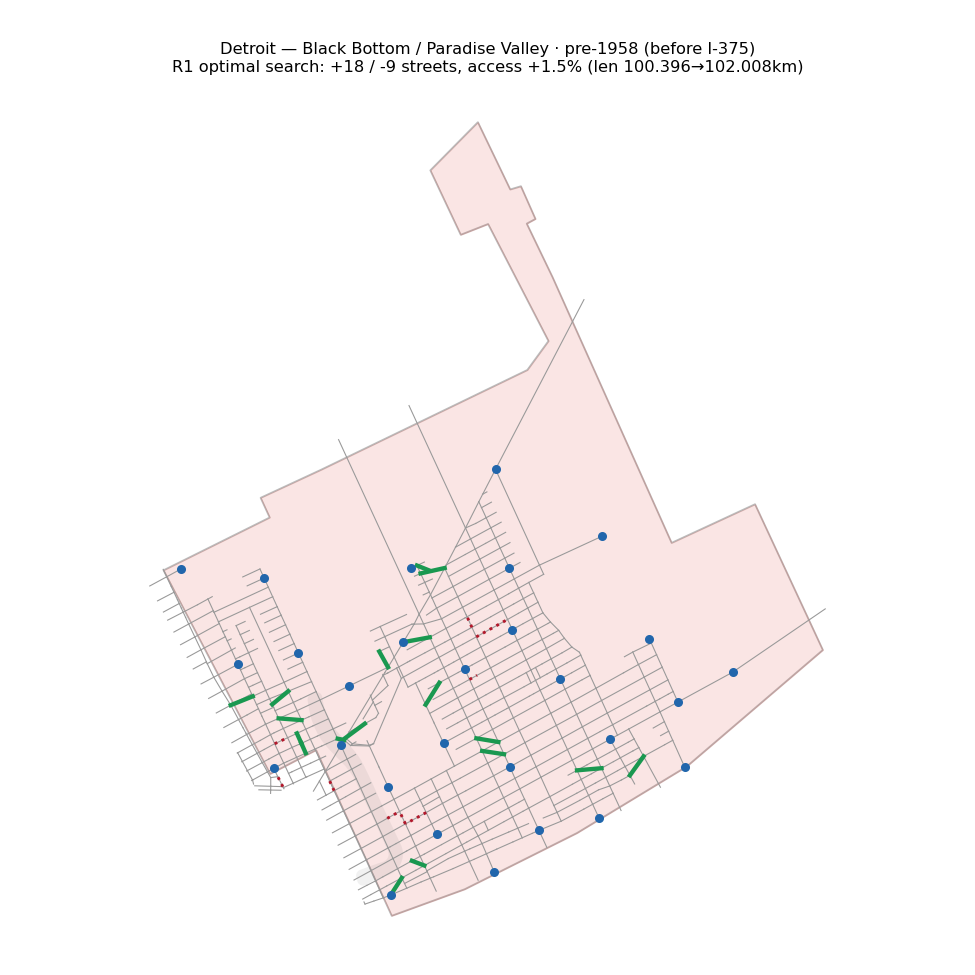
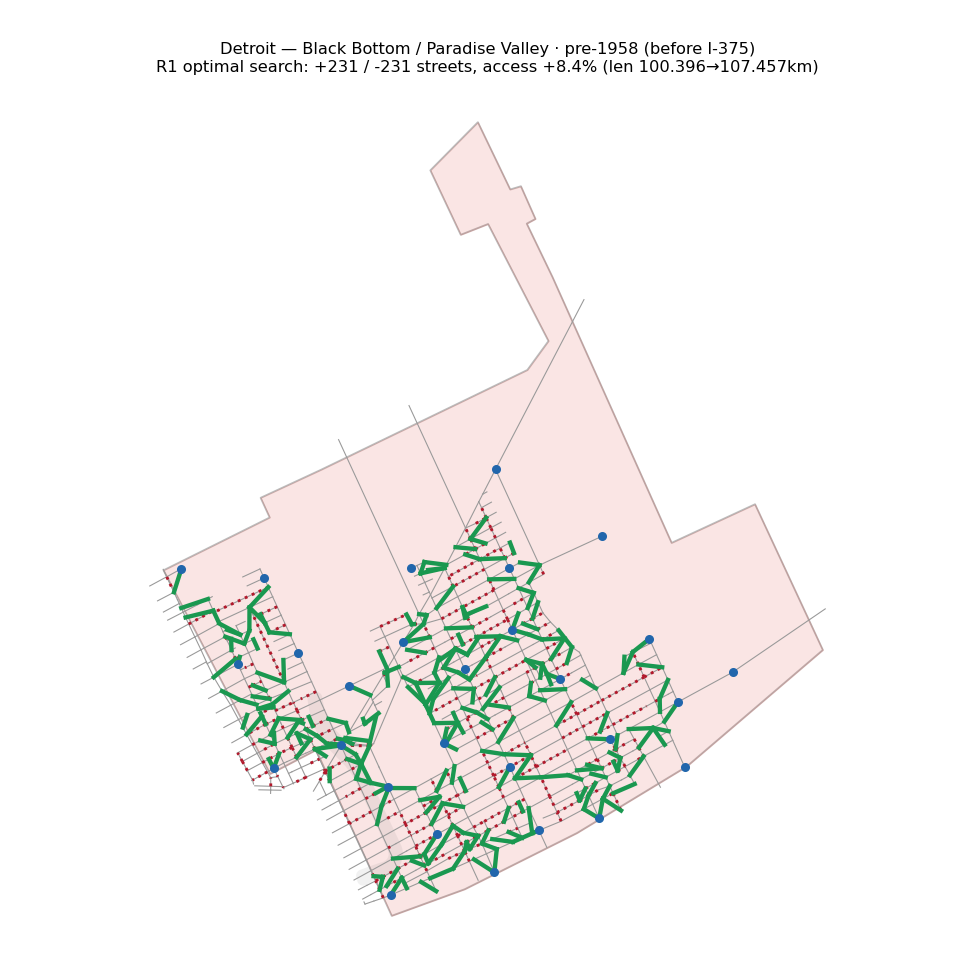
Regime-1 search diagnostics + temperature fix (MCMC accuracy)
Adds convergence/acceptance/seed-stability diagnostics for the R1 annealing
search (it's an optimizer, not a sampler, so R-hat/ESS don't apply).

22_regime1_diagnostics.py: runs N seeds, plots (1) running-best J convergence,
  (2) acceptance rate vs temperature, (3) seed stability of the optimum;
  writes regime1_mcmc_diag.csv.
20_regime1_prehighway.py: records a per-iteration trace, and FIXES the anneal
  schedule -- T0 was 0.06, ~400x too hot for the per-move dJ (~1e-4), so
  acceptance was pinned ~0.95 (random walk) and the optimum was seed-unstable
  (0.87%+/-0.81%). T0,T1 = 2e-4,5e-6 -> textbook acceptance decay (0.7->0.1)
  and seed-stable 9.08%+/-0.51%.

Caveat surfaced and documented: with a working hill-climb the objective rewires
~25% of the grid toward the 28 sampled landmarks (+231/-231, +8.4%), so R1's
access_gain is a landmark-referenced upper bound, not proof the historic grid
was deficient -- held-out-landmark evaluation is the next step. The earlier
"+18/-9, near-optimal" claim was a random-walk artefact and is retracted.

Changed region(s): [[0.1846, 0.5231, 0.7077, 0.9231], [0.1538, 0.0615, 0.8308, 0.0923], [0.1538, 0.5846, 0.1846, 0.6154]]

diff --git a/pathfinder/22_regime1_diagnostics.py b/pathfinder/22_regime1_diagnostics.py
@@ -1,0 +1,135 @@
+"""Regime-1 search diagnostics: convergence, acceptance, seed stability.
+
+Regime 1 is a simulated-annealing optimizer (find the cost-efficient network),
+NOT a posterior sampler, so R-hat / ESS don't apply directly.  The relevant
+"accuracy" evidence for an annealing search is:
+
+  1. CONVERGENCE   -- does the running-best objective J reach a plateau?
+  2. ACCEPTANCE    -- does the Metropolis acceptance rate fall smoothly from
+                      ~high (exploration, hot) to ~low (exploitation, cold)?
+                      Flat-high = random walk (not optimizing); flat-zero =
+                      frozen (stuck).  A healthy anneal decays in between.
+  3. STABILITY     -- do independent seeds converge to the SAME optimum
+                      (access_gain, #added, #removed)?  Tight spread => the
+                      search reliably finds the optimum, not a seed artefact.
+
+Runs `optimize` for several seeds, plots all three, writes a diagnostics CSV.
+
+Outputs: results/pathfinder/fig_{slug}_regime1_mcmc.png,
+         results/pathfinder/regime1_mcmc_diag.csv
+Usage: python pathfinder/22_regime1_diagnostics.py [--slug detroit]
+       [--iters 2000] [--seeds 1 7 13 21 42]
+"""
+from __future__ import annotations
+
+import argparse
+import warnings
+
+import matplotlib
+import numpy as np
+import pandas as pd
+
+matplotlib.use("Agg")
+import matplotlib.pyplot as plt  # noqa: E402
+
+import importlib.util
+from pathlib import Path
+
+from pf_common import CITIES, RES
+
+# import the numbered Regime-1 module (name starts with a digit)
+_spec = importlib.util.spec_from_file_location(
+    "regime1", Path(__file__).with_name("20_regime1_prehighway.py"))
+regime1 = importlib.util.module_from_spec(_spec)
+_spec.loader.exec_module(regime1)
+
+warnings.filterwarnings("ignore")
+
+
+def rolling(x, w):
+    x = np.asarray(x, float)
+    if len(x) < w:
+        return x
+    c = np.cumsum(np.insert(x, 0, 0))
+    return (c[w:] - c[:-w]) / w
+
+
+def main():
+    ap = argparse.ArgumentParser()
+    ap.add_argument("--slug", default="detroit")
+    ap.add_argument("--iters", type=int, default=2000)
+    ap.add_argument("--landmarks", type=int, default=28)
+    ap.add_argument("--mu", type=float, default=0.08)
+    ap.add_argument("--seeds", type=int, nargs="*", default=[1, 7, 13, 21, 42])
+    a = ap.parse_args()
+    cfg = CITIES[a.slug]
+
+    runs, diag_rows = [], []
+    for sd in a.seeds:
+        print(f"[{a.slug}] seed={sd} ...", flush=True)
+        row, art = regime1.optimize(a.slug, a.iters, a.landmarks, a.mu, sd)
+        tr = np.array(art["trace"], float)   # it,T,J,bestJ,accepted,n_edges
+        runs.append((sd, tr))
+        diag_rows.append(dict(
+            seed=sd, iters=a.iters,
+            access_gain=row["access_gain"], eff_gain=row["eff_gain"],
+            n_added=row["n_added"], n_removed=row["n_removed"],
+            len_opt_km=row["len_opt_km"],
+            final_bestJ=round(float(tr[-1, 3]), 5),
+            accept_rate=round(float(tr[:, 4].mean()), 3),
+            accept_rate_last10pct=round(float(tr[int(0.9 * len(tr)):, 4].mean()), 3),
+        ))
+        print(f"    access_gain={row['access_gain']*100:.2f}%  "
+              f"+{row['n_added']}/-{row['n_removed']}  "
+              f"accept={diag_rows[-1]['accept_rate']:.2f}", flush=True)
+
+    df = pd.DataFrame(diag_rows)
+    df.to_csv(RES / "regime1_mcmc_diag.csv", index=False)
+
+    fig, axes = plt.subplots(1, 3, figsize=(16, 4.6))
+    cmap = plt.cm.viridis(np.linspace(0, 0.85, len(runs)))
+
+    # (1) convergence: running-best J
+    ax = axes[0]
+    for (sd, tr), c in zip(runs, cmap):
+        ax.plot(tr[:, 0], tr[:, 3] * 100, color=c, lw=1.3, label=f"seed {sd}")
+    ax.set_xlabel("iteration"); ax.set_ylabel("running-best objective J (%)")
+    ax.set_title("(1) Convergence of best J", fontsize=11)
+    ax.legend(fontsize=8)
+
+    # (2) acceptance rate (rolling) vs iteration, with temperature on twin axis
+    ax = axes[1]
+    W = max(20, a.iters // 40)
+    for (sd, tr), c in zip(runs, cmap):
+        ar = rolling(tr[:, 4], W)
+        ax.plot(np.arange(len(ar)), ar, color=c, lw=1.2)
+    ax.set_xlabel("iteration"); ax.set_ylabel(f"acceptance rate (roll {W})")
+    ax.set_ylim(0, 1); ax.set_title("(2) Acceptance rate (anneal)", fontsize=11)
+    axT = ax.twinx()
+    axT.plot(runs[0][1][:, 0], runs[0][1][:, 1], color="#d73027", ls="--", lw=1)
+    axT.set_ylabel("temperature", color="#d73027")
+    axT.tick_params(axis="y", labelcolor="#d73027")
+
+    # (3) seed stability of the optimum
+    ax = axes[2]
+    ax.scatter(df["seed"].astype(str), df["access_gain"] * 100,
+               s=70, color="#2166ac", zorder=3)
+    m, sdv = df["access_gain"].mean() * 100, df["access_gain"].std() * 100
+    ax.axhline(m, color="#888", ls="--", lw=1)
+    ax.fill_between([-0.4, len(df) - 0.6], m - sdv, m + sdv, color="#2166ac", alpha=0.12)
+    ax.set_xlabel("seed"); ax.set_ylabel("final access_gain (%)")
+    ax.set_title(f"(3) Seed stability: {m:.2f}% ± {sdv:.2f}%", fontsize=11)
+
+    fig.suptitle(f"{cfg['city']} Regime-1 search diagnostics "
+                 f"({len(runs)} seeds × {a.iters} iters)", fontsize=12)
+    fig.tight_layout()
+    fig.savefig(RES / f"fig_{a.slug}_regime1_mcmc.png", dpi=130)
+    plt.close(fig)
+
+    print("\nwrote regime1_mcmc_diag.csv, fig_"
+          f"{a.slug}_regime1_mcmc.png")
+    print(df.to_string(index=False))
+
+
+if __name__ == "__main__":
+    main()

diff --git a/pathfinder/20_regime1_prehighway.py b/pathfinder/20_regime1_prehighway.py
@@ -152,8 +152,13 @@ def optimize(slug, iters, n_land, mu, seed):
     J = objective(D, L)
     added, removed = {}, []          # (u,v)->length ; list of (u,v,length)
     cands = add_candidates(G, pos, omega)
-    T0, T1 = 0.06, 0.002
+    # Temperature must match the objective's per-move ΔJ scale (~1e-4 here): the
+    # earlier T0=0.06 made exp(ΔJ/T)≈1 for every move -> a random walk that never
+    # exploits (acceptance pinned ~0.95, seed-unstable optimum).  Scaled ~400x
+    # lower so acceptance decays from ~explore to ~0 (proper anneal / hill-climb).
+    T0, T1 = 2.0e-4, 5.0e-6
     best = dict(J=J, added={}, removed=[], D=D, L=L)
+    trace = []                       # (iter, T, J, best_J, accepted, n_edges)
 
     for it in range(iters):
         T = T0 * (T1 / T0) ** (it / max(iters - 1, 1))
@@ -180,7 +185,9 @@ def optimize(slug, iters, n_land, mu, seed):
         Dn = access_cost(G, land)
         Ln = net_length(G)
         Jn = objective(Dn, Ln)
-        if Jn >= J or rng.random() < np.exp((Jn - J) / max(T, 1e-9)):
+        accepted = (Jn >= J) or (rng.random() < np.exp((Jn - J) / max(T, 1e-9)))
+        trace.append((it, T, Jn, best["J"], int(accepted), G.number_of_edges()))
+        if accepted:
             J, D, L = Jn, Dn, Ln
             k = (move[1], move[2]) if move[1] < move[2] else (move[2], move[1])
             if move[0] == "add":
@@ -223,7 +230,7 @@ def optimize(slug, iters, n_land, mu, seed):
         n_landmarks=len(land),
     )
     art = dict(slug=slug, G0=G0, Gb=Gb, pos=pos, lay=lay, land=land,
-               added=best["added"], removed=best["removed"], row=row)
+               added=best["added"], removed=best["removed"], row=row, trace=trace)
     return row, art
 
 